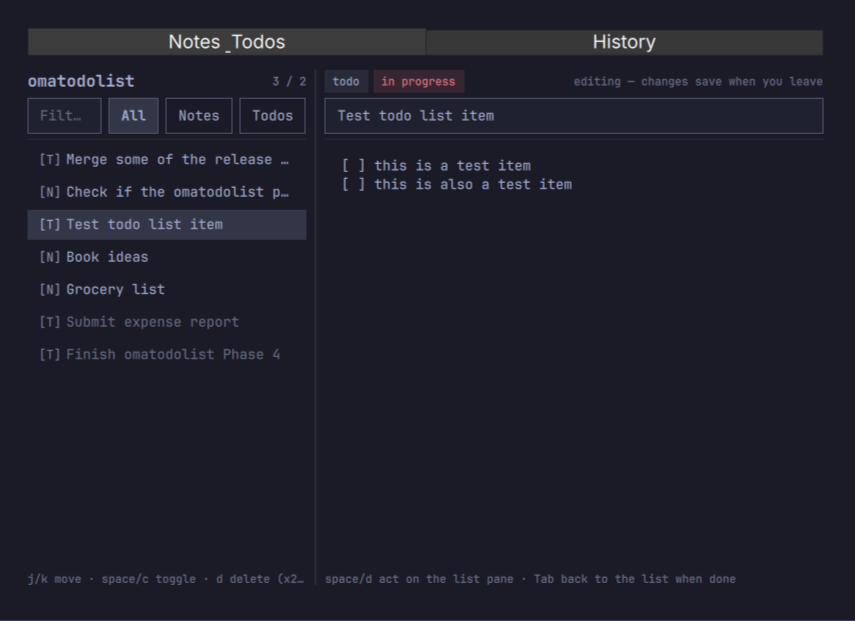
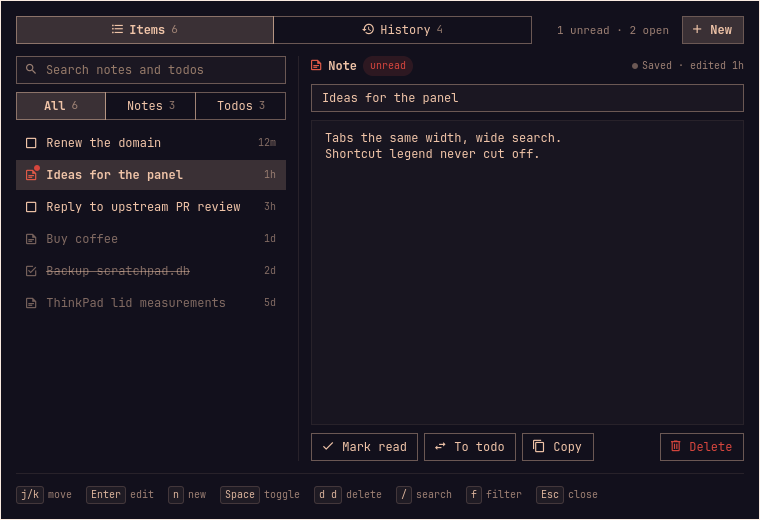
docs: README for npm test and a new preview
The Skills section pointed at a folder that is no longer in the repo.

diff --git a/README.md b/README.md
@@ -47,10 +47,11 @@ Every mutation is async and converges on the UI through the file watcher.
 ## Development
 
 - `npm run validate` — `omarchy plugin validate .`
+- `npm test` — runs `node --test test/`, then `test/render.sh` and `test/behavior.sh` (each spins up an offscreen Quickshell and takes about a minute).
 
 ## Skills
 
-The `skills/omatodolist-agent/` directory contains an OpenCode agent skill for driving the plugin via IPC from the command line. Install it by copying the `skills/omatodolist-agent` folder into your agent's skills directory.
+An OpenCode agent skill for driving the plugin via IPC from the command line lives at [DarkSurferZA/omatodolist-skill](https://github.com/DarkSurferZA/omatodolist-skill).
 
 ## License
 
@@ -61,5 +62,3 @@ Copyright © 2026 Cailan Sacks
 ## AI Disclosure
 
 Parts of this package, including code and this documentation, were developed with the assistance of AI tools (OpenCode) working from the project specification under human direction.
-
-AI SKILL moved to DarkSurferZA/omatodolist-skill
